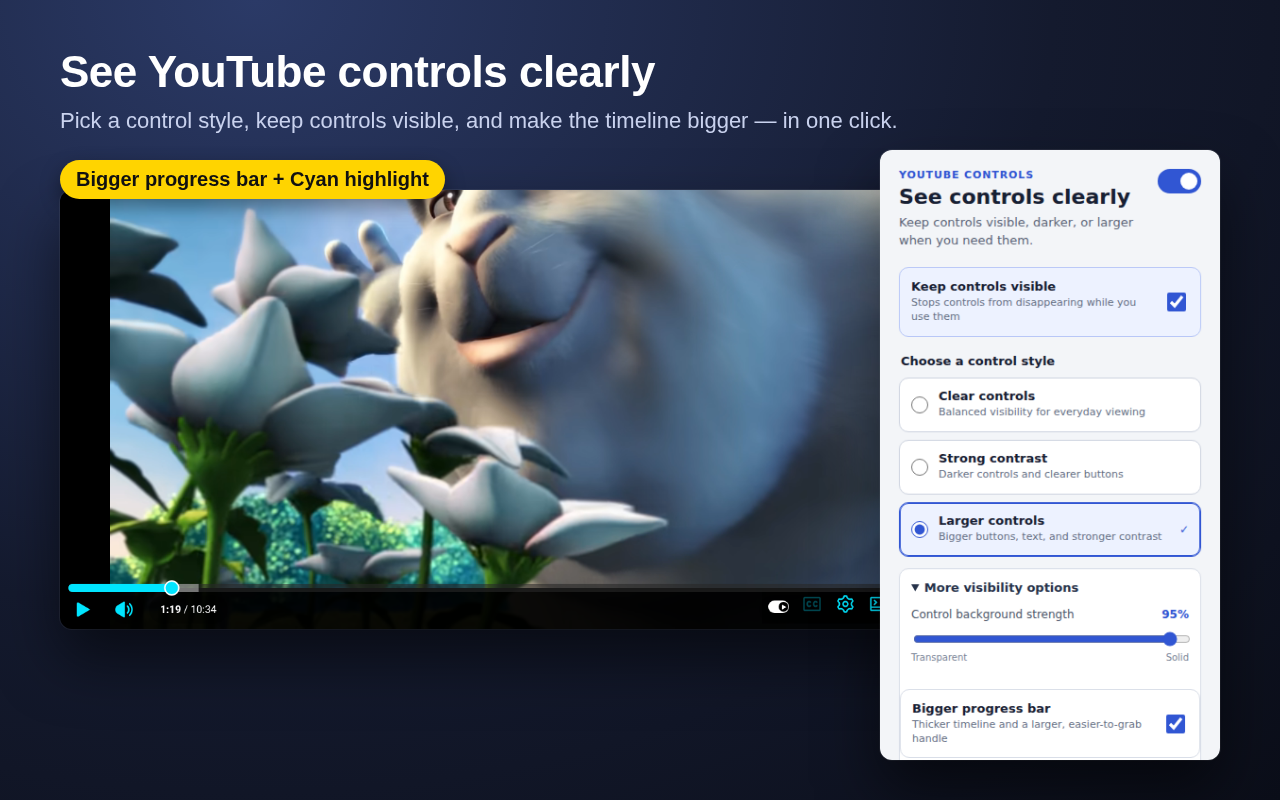
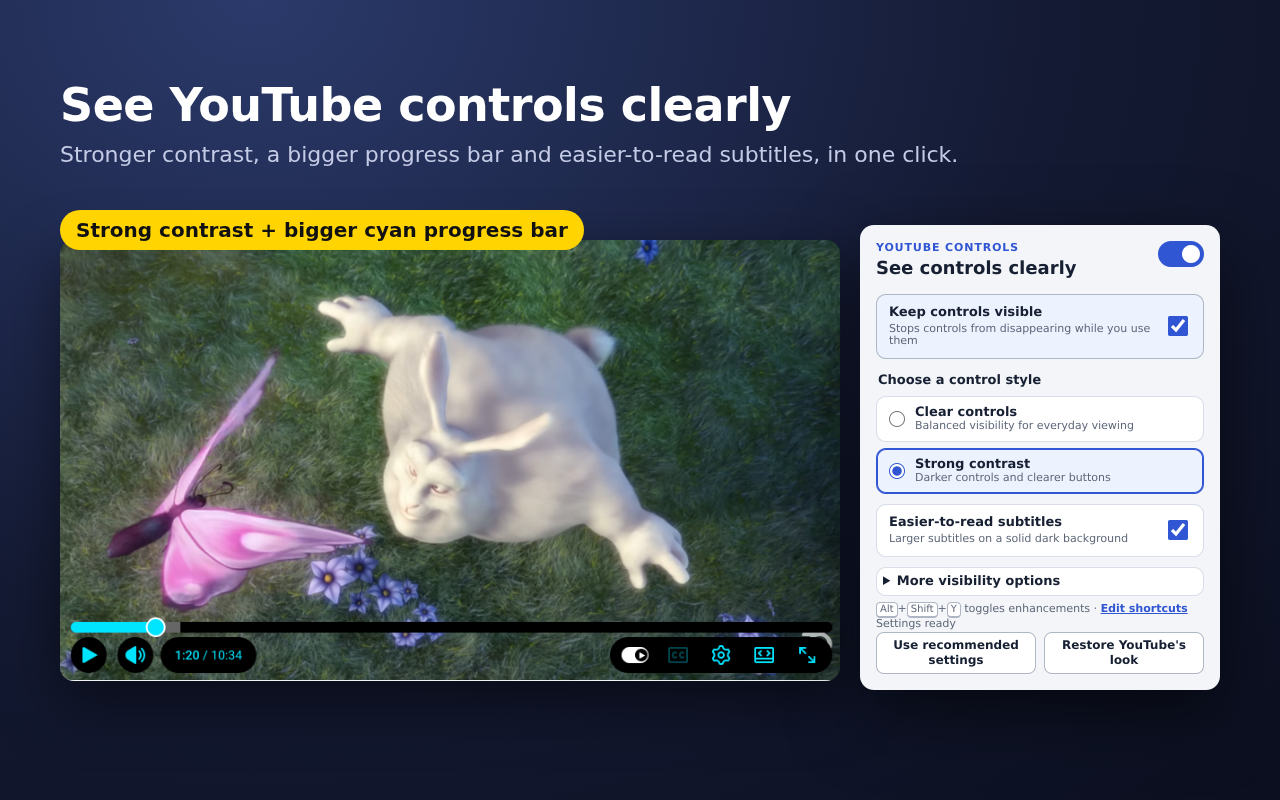
Prepare 2.1.0: version bump, changelog, What's new copy, new store screenshot

diff --git a/scripts/smoke.js b/scripts/smoke.js
@@ -12,7 +12,10 @@ const embedLineFixture = fs.readFileSync(path.join(root, 'test/fixtures/embed-li
 const embedFixture = fs.readFileSync(path.join(root, 'test/fixtures/embed.html'), 'utf8');
 const ratePromptReviewsUrl = 'https://chromewebstore.google.com/detail/dcmmcbdcbpaoefhnlogalnfnnmjolfbh/reviews';
 
-async function assertHeaderLayout(popup, { ratePromptVisible = false } = {}) {
+async function assertHeaderLayout(
+  popup,
+  { ratePromptVisible = false, whatsNewVisible = false } = {}
+) {
   const locales = fs.readdirSync(path.join(root, '_locales'), { withFileTypes: true })
     .filter(entry => entry.isDirectory())
     .map(entry => entry.name)
@@ -26,6 +29,9 @@ async function assertHeaderLayout(popup, { ratePromptVisible = false } = {}) {
     heading: document.querySelector('h1').textContent,
     direction: document.documentElement.dir,
     lang: document.documentElement.lang,
+    whatsNewTitle: document.getElementById('whatsNewTitle').textContent,
+    whatsNewBody: document.querySelector('#whatsNew .popup-banner-copy p').textContent,
+    whatsNewDismiss: document.getElementById('whatsNewDismiss').textContent,
     ratePromptHidden: document.getElementById('ratePrompt').hidden,
     ratePromptTitle: document.getElementById('ratePromptTitle').textContent,
     ratePromptBody: document.querySelector('#ratePrompt .popup-banner-copy p').textContent,
@@ -35,6 +41,7 @@ async function assertHeaderLayout(popup, { ratePromptVisible = false } = {}) {
     customizeOpen: document.querySelector('details.customize').open
   }));
   const heights = [];
+  const tooTall = [];
   try {
     for (const locale of locales) {
       const messages = JSON.parse(fs.readFileSync(
@@ -46,22 +53,30 @@ async function assertHeaderLayout(popup, { ratePromptVisible = false } = {}) {
         heading: messages.headerTitle.message,
         direction: locale === 'ar' ? 'rtl' : 'ltr',
         lang: locale.replace('_', '-'),
+        whatsNewTitle: messages.whatsNewTitle.message.replace('$VERSION$', '2.1'),
+        whatsNewBody: messages.whatsNewBody.message,
+        whatsNewDismiss: messages.whatsNewDismiss.message,
         ratePromptTitle: messages.ratePromptTitle.message,
         ratePromptBody: messages.ratePromptBody.message,
         ratePromptRate: messages.ratePromptRate.message,
         ratePromptDismiss: messages.ratePromptDismiss.message,
-        ratePromptVisible
+        ratePromptVisible,
+        whatsNewVisible
       };
       const actual = await popup.evaluate(async ({
         eyebrow,
         heading,
         direction,
         lang,
+        whatsNewTitle,
+        whatsNewBody,
+        whatsNewDismiss,
         ratePromptTitle,
         ratePromptBody,
         ratePromptRate,
         ratePromptDismiss,
-        ratePromptVisible: showRatePrompt
+        ratePromptVisible: showRatePrompt,
+        whatsNewVisible: showWhatsNew
       }) => {
         document.documentElement.dir = direction;
         document.documentElement.lang = lang;
@@ -69,8 +84,17 @@ async function assertHeaderLayout(popup, { ratePromptVisible = false } = {}) {
         document.querySelector('h1').textContent = heading;
         const ratePrompt = document.getElementById('ratePrompt');
         ratePrompt.hidden = !showRatePrompt;
+        const whatsNew = document.getElementById('whatsNew');
+        whatsNew.hidden = !showWhatsNew;
+        if (showWhatsNew) {
+          ratePrompt.hidden = true;
+          document.querySelector('details.customize').open = false;
+          document.getElementById('whatsNewTitle').textContent = whatsNewTitle;
+          document.querySelector('#whatsNew .popup-banner-copy p').textContent = whatsNewBody;
+          document.getElementById('whatsNewDismiss').textContent = whatsNewDismiss;
+        }
         if (showRatePrompt) {
-          document.getElementById('whatsNew').hidden = true;
+          whatsNew.hidden = true;
           document.querySelector('details.customize').open = false;
           document.getElementById('ratePromptTitle').textContent = ratePromptTitle;
           document.querySelector('#ratePrompt .popup-banner-copy p').textContent = ratePromptBody;
@@ -107,16 +131,21 @@ async function assertHeaderLayout(popup, { ratePromptVisible = false } = {}) {
       if (overlapsToggle(actual.heading) || actual.headingOverflow) {
         fail(`${locale} heading overlaps the toggle or overflows its column`);
       }
-      if (ratePromptVisible) {
+      if (ratePromptVisible || whatsNewVisible) {
         if (actual.height > 600) {
-          fail(`expected ${locale} closed popup with rating banner at most 600px, got ${actual.height}px`);
+          tooTall.push(`${locale}=${actual.height}px`);
         }
         heights.push({ locale, height: actual.height });
       }
     }
-    if (ratePromptVisible) {
-      console.log(`Popup header geometry and rating-banner heights passed: ${heights
+    if (ratePromptVisible || whatsNewVisible) {
+      const banner = whatsNewVisible ? "What's new" : 'rating';
+      console.log(`Popup header geometry and ${banner}-banner heights passed: ${heights
         .map(({ locale, height }) => `${locale}=${height}px`).join(', ')}`);
+      if (tooTall.length) {
+        const banner = whatsNewVisible ? "What's new" : 'rating';
+        fail(`expected ${banner} banner heights at most 600px, got ${tooTall.join(', ')}`);
+      }
     } else {
       console.log(`Popup header geometry passed for ${locales.length} locales`);
     }
@@ -127,6 +156,9 @@ async function assertHeaderLayout(popup, { ratePromptVisible = false } = {}) {
       heading,
       direction,
       lang,
+      whatsNewTitle,
+      whatsNewBody,
+      whatsNewDismiss,
       ratePromptHidden,
       ratePromptTitle,
       ratePromptBody,
@@ -139,6 +171,9 @@ async function assertHeaderLayout(popup, { ratePromptVisible = false } = {}) {
       document.querySelector('h1').textContent = heading;
       document.documentElement.dir = direction;
       document.documentElement.lang = lang;
+      document.getElementById('whatsNewTitle').textContent = whatsNewTitle;
+      document.querySelector('#whatsNew .popup-banner-copy p').textContent = whatsNewBody;
+      document.getElementById('whatsNewDismiss').textContent = whatsNewDismiss;
       document.getElementById('ratePrompt').hidden = ratePromptHidden;
       document.getElementById('ratePromptTitle').textContent = ratePromptTitle;
       document.querySelector('#ratePrompt .popup-banner-copy p').textContent = ratePromptBody;
@@ -229,6 +264,89 @@ async function captureRatePromptScreenshots(popup, screenshotDir) {
       document.getElementById('ratePromptDismiss').textContent = dismiss;
       document.getElementById('ratePrompt').hidden = promptHidden;
       document.getElementById('whatsNew').hidden = whatsNewHidden;
+      document.querySelector('details.customize').open = customizeOpen;
+    }, original);
+    await popup.emulateMedia({ colorScheme: 'light' });
+    if (viewport) await popup.setViewportSize(viewport);
+  }
+}
+
+async function captureWhatsNewScreenshots(popup, screenshotDir) {
+  fs.mkdirSync(screenshotDir, { recursive: true });
+  const original = await popup.evaluate(() => ({
+    direction: document.documentElement.dir,
+    lang: document.documentElement.lang,
+    title: document.getElementById('whatsNewTitle').textContent,
+    body: document.querySelector('#whatsNew .popup-banner-copy p').textContent,
+    dismiss: document.getElementById('whatsNewDismiss').textContent,
+    whatsNewHidden: document.getElementById('whatsNew').hidden,
+    ratePromptHidden: document.getElementById('ratePrompt').hidden,
+    customizeOpen: document.querySelector('details.customize').open
+  }));
+  const viewport = popup.viewportSize();
+  const captures = [
+    { locale: 'en', scheme: 'light' },
+    { locale: 'pl', scheme: 'light' },
+    { locale: 'pl', scheme: 'dark' },
+    { locale: 'de', scheme: 'light' }
+  ];
+
+  try {
+    await popup.setViewportSize({ width: 360, height: 600 });
+    for (const { locale, scheme } of captures) {
+      const messages = JSON.parse(fs.readFileSync(
+        path.join(root, '_locales', locale, 'messages.json'),
+        'utf8'
+      ));
+      await popup.evaluate(({
+        locale,
+        title,
+        body,
+        dismiss
+      }) => {
+        document.documentElement.dir = 'ltr';
+        document.documentElement.lang = locale;
+        document.querySelector('details.customize').open = false;
+        document.getElementById('ratePrompt').hidden = true;
+        document.getElementById('whatsNew').hidden = false;
+        document.getElementById('whatsNewTitle').textContent = title;
+        document.querySelector('#whatsNew .popup-banner-copy p').textContent = body;
+        document.getElementById('whatsNewDismiss').textContent = dismiss;
+      }, {
+        locale,
+        title: messages.whatsNewTitle.message.replace('$VERSION$', '2.1'),
+        body: messages.whatsNewBody.message,
+        dismiss: messages.whatsNewDismiss.message
+      });
+      await popup.emulateMedia({ colorScheme: scheme });
+      await popup.evaluate(() => new Promise(resolve => {
+        document.fonts.ready.then(() => {
+          requestAnimationFrame(() => requestAnimationFrame(resolve));
+        });
+      }));
+      await popup.screenshot({
+        path: path.join(screenshotDir, `whatsnew-${locale}-${scheme}.png`),
+        fullPage: true
+      });
+    }
+  } finally {
+    await popup.evaluate(({
+      direction,
+      lang,
+      title,
+      body,
+      dismiss,
+      whatsNewHidden,
+      ratePromptHidden,
+      customizeOpen
+    }) => {
+      document.documentElement.dir = direction;
+      document.documentElement.lang = lang;
+      document.getElementById('whatsNewTitle').textContent = title;
+      document.querySelector('#whatsNew .popup-banner-copy p').textContent = body;
+      document.getElementById('whatsNewDismiss').textContent = dismiss;
+      document.getElementById('whatsNew').hidden = whatsNewHidden;
+      document.getElementById('ratePrompt').hidden = ratePromptHidden;
       document.querySelector('details.customize').open = customizeOpen;
     }, original);
     await popup.emulateMedia({ colorScheme: 'light' });
@@ -433,6 +551,24 @@ async function main() {
       fail('expected extension enabled with the recommended settings');
     }
     await assertHeaderLayout(popup, { ratePromptVisible: true });
+    await setLocalStorage(popup, {
+      whatsNewVersion: '2.1.0',
+      whatsNewDismissed: ''
+    });
+    await popup.reload();
+    await popup.waitForFunction(() => !document.getElementById('whatsNew').hidden
+      && document.getElementById('whatsNewTitle').textContent === 'New in 2.1'
+      && document.getElementById('ratePrompt').hidden);
+    await assertHeaderLayout(popup, { whatsNewVisible: true });
+    if (process.env.YTOC_WHATSNEW_SCREENSHOT_DIR) {
+      await captureWhatsNewScreenshots(popup, process.env.YTOC_WHATSNEW_SCREENSHOT_DIR);
+    }
+    await setLocalStorage(popup, {
+      whatsNewVersion: '2.1.0',
+      whatsNewDismissed: '2.1'
+    });
+    await popup.reload();
+    await popup.waitForFunction(() => document.getElementById('whatsNew').hidden);
     await popup.waitForFunction(() => {
       const keys = Array.from(document.querySelectorAll('#shortcutKeys kbd'), key => key.textContent);
       return keys.join('|') === 'Alt|Shift|Y';
@@ -442,7 +578,7 @@ async function main() {
       fail(`expected shortcut keys Alt, Shift, Y, got ${shortcutKeys.join(', ')}`);
     }
     await popup.evaluate(() => new Promise(resolve => {
-      chrome.storage.local.set({ whatsNewVersion: '2.0', whatsNewDismissed: '2.0' }, resolve);
+      chrome.storage.local.set({ whatsNewVersion: '2.1.0', whatsNewDismissed: '2.1' }, resolve);
     }));
     const closedPopupHeight = await popup.evaluate(() => {
       document.querySelector('details.customize').open = false;
@@ -779,8 +915,8 @@ async function main() {
       popupOpens: 5,
       ratePromptDone: false,
       ratePromptShown: 0,
-      whatsNewVersion: '2.0',
-      whatsNewDismissed: '2.0'
+      whatsNewVersion: '2.1.0',
+      whatsNewDismissed: '2.1'
     };
 
     await setLocalStorage(popup, eligibleRatePromptState);

diff --git a/popup.js b/popup.js
@@ -1,4 +1,5 @@
 const t = (key, substitutions) => chrome.i18n.getMessage(key, substitutions);
+const featureVersion = version => String(version).split('.').slice(0, 2).join('.');
 
 document.documentElement.lang = t('@@ui_locale').replace('_', '-');
 document.documentElement.dir = t('@@bidi_dir');
@@ -7,6 +8,10 @@ document.querySelectorAll('[data-i18n]').forEach(el => {
   const message = t(el.dataset.i18n);
   if (message) el.textContent = message;
 });
+document.getElementById('whatsNewTitle').textContent = t(
+  'whatsNewTitle',
+  [featureVersion(chrome.runtime.getManifest().version)]
+);
 document.querySelectorAll('[data-i18n-aria-label]').forEach(el => {
   const message = t(el.dataset.i18nAriaLabel);
   if (message) el.setAttribute('aria-label', message);
@@ -234,9 +239,6 @@ editShortcuts.addEventListener('click', () => {
   }
 });
 
-// The banner describes a feature release ("New in 2.0"), so it is keyed to the
-// major.minor version and does not resurface on patch bumps like 2.0.1.
-const featureVersion = version => String(version).split('.').slice(0, 2).join('.');
 const RATE_PROMPT_URL = 'https://chromewebstore.google.com/detail/dcmmcbdcbpaoefhnlogalnfnnmjolfbh/reviews';
 
 whatsNewDismiss.addEventListener('click', () => {

diff --git a/popup.html b/popup.html
@@ -10,7 +10,7 @@
   <main class="container">
     <div id="whatsNew" class="popup-banner" hidden>
       <div class="popup-banner-copy">
-        <strong data-i18n="whatsNewTitle">New in 2.0</strong>
+        <strong id="whatsNewTitle" data-i18n="whatsNewTitle">New in 2.1</strong>
         <p data-i18n="whatsNewBody">Bigger progress bar, highlight colors, keyboard shortcuts and a larger pointer — find them under More visibility options.</p>
       </div>
       <button type="button" id="whatsNewDismiss" class="popup-banner-primary" data-i18n="whatsNewDismiss">Got it</button>

diff --git a/store-assets/SCREENSHOTS_GUIDE.md b/store-assets/SCREENSHOTS_GUIDE.md
@@ -6,13 +6,13 @@ Chrome Web Store requires **1-5 screenshots** of your extension in action.
 - **1280x800 pixels** (recommended)
 - OR **640x400 pixels**
 
-## Current screenshots (v2.0)
+## Current screenshots (v2.1)
 
-`screenshot1.png`–`screenshot5.png` are 1280×800 composites generated from real YouTube captures (Big Buck Bunny, CC-BY) of the v2.0 UI:
+`screenshot1.png`–`screenshot5.png` are 1280×800 composites generated from real YouTube captures (Big Buck Bunny, CC-BY) of the extension UI:
 
-The first composite still shows the retired third style and should be replaced before the next store listing refresh.
+`screenshot1.png` was recaptured for v2.1 (modern pill player, current popup). `screenshot2.png`–`screenshot5.png` are still v2.0 captures of the older square control band.
 
-1. Popup next to the player — Strong Contrast, bigger progress bar, cyan highlight
+1. Popup next to the player — Strong contrast, bigger cyan progress bar, easier-to-read subtitles on
 2. Before/after control strip — no extension vs Strong Contrast
 3. Bigger progress bar in yellow / cyan / green
 4. Keyboard shortcuts with the on-player HUD

diff --git a/CHANGELOG.md b/CHANGELOG.md
@@ -7,6 +7,8 @@ and this project adheres to [Semantic Versioning](https://semver.org/spec/v2.0.0
 
 ## [Unreleased]
 
+## [2.1.0] - 2026-10-22
+
 ### Added
 - Firefox support
 - A one-time, dismissible prompt to rate the extension after a week of use (Chrome only)
